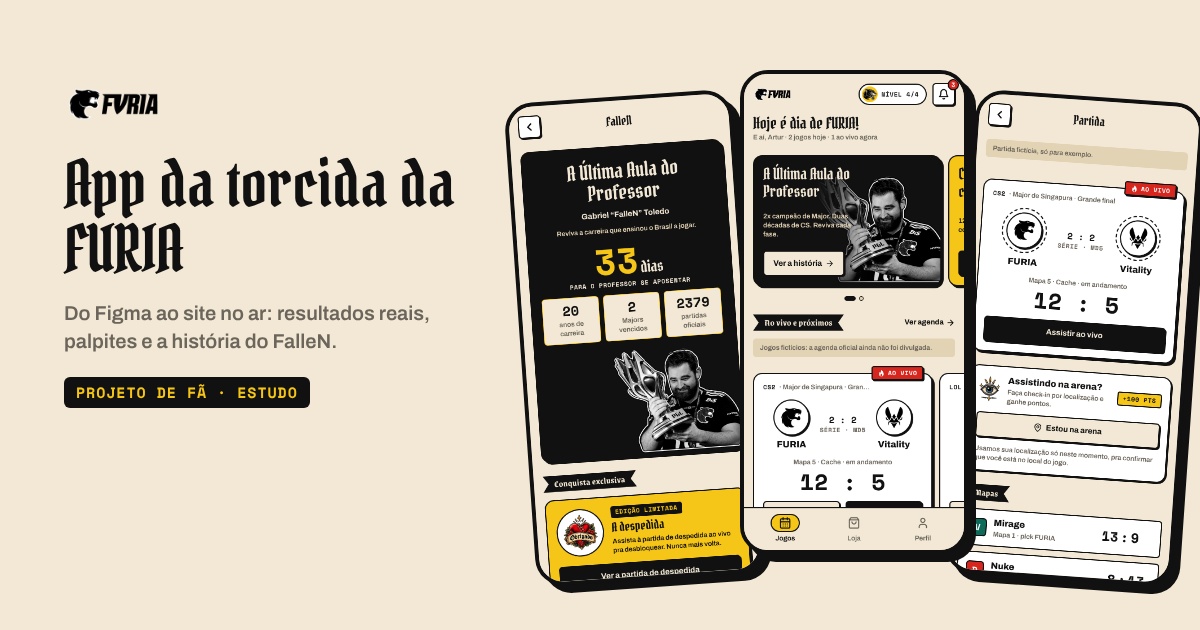
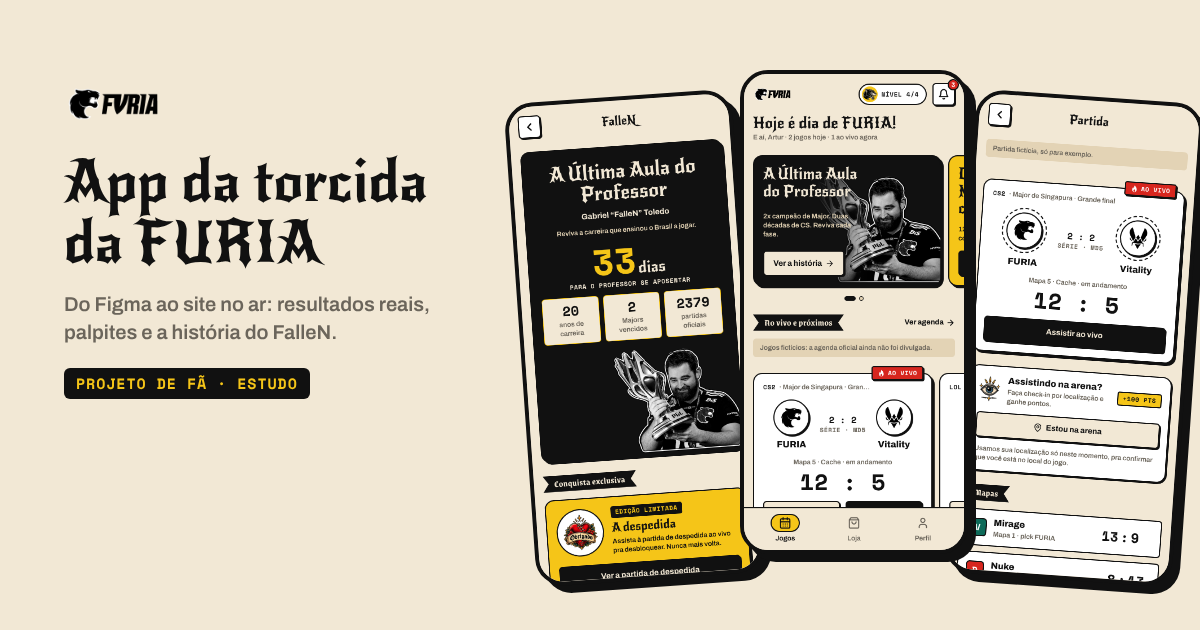
Títulos em New Rocker no lugar da Pirata One
Só a fonte dos títulos muda (display); texto, números e as faixas de
seção (Grenze Gotisch) continuam iguais. A imagem de prévia do link foi
gerada de novo com a fonte nova.

Claude-Session: https://claude.ai/code/session_01Bj8Cpjc2e26eHNxhgPiPY9

diff --git a/index.html b/index.html
@@ -21,7 +21,7 @@
     <link rel="icon" href="/img/furia-logo.webp" />
     <link rel="preconnect" href="https://fonts.googleapis.com" />
     <link rel="preconnect" href="https://fonts.gstatic.com" crossorigin />
-    <link href="https://fonts.googleapis.com/css2?family=Archivo:wght@500;600;700;800&family=Grenze+Gotisch:wght@700&family=Pirata+One&family=Space+Mono:wght@700&display=swap" rel="stylesheet" />
+    <link href="https://fonts.googleapis.com/css2?family=Archivo:wght@500;600;700;800&family=Grenze+Gotisch:wght@700&family=New+Rocker&family=Space+Mono:wght@700&display=swap" rel="stylesheet" />
   </head>
   <body>
     <div id="root"></div>

diff --git a/src/styles.css b/src/styles.css
@@ -17,7 +17,7 @@
   --border: 2.5px solid var(--ink);
   --shadow-2: 2px 2px 0 var(--ink);
   --shadow-4: 4px 4px 0 var(--ink);
-  --f-display: 'Pirata One', 'Grenze Gotisch', serif;
+  --f-display: 'New Rocker', 'Grenze Gotisch', serif;
   --f-ribbon: 'Grenze Gotisch', serif;
   --f-body: 'Archivo', system-ui, sans-serif;
   --f-mono: 'Space Mono', ui-monospace, monospace;
